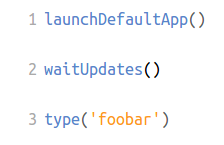
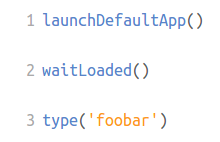
Fix images to match new naming

diff --git a/docs/guides/bulletproof-tests.md b/docs/guides/bulletproof-tests.md
@@ -61,11 +61,11 @@ permalink: docs/guides/bulletproof-tests/
   
 ####Wating for screen to load
 
-  Another way to make sure the screen is ready is by using **waitUpdates** function.  
-  When **waitUpdates** is called it starts monitoring changes on the application screen.  
-  When the screen is loading it always changes, when it's done - it stops updating, hence the name **waitUpdates**.
+  Another way to make sure the screen is ready is by using **waitLoaded** function.  
+  When **waitLoaded** is called it starts monitoring changes on the application screen.  
+  When the screen is loading it always changes, when it's done - it stops changing, so the screen is considered to be loaded.
 
-  <img src="/img/guides/bulletproof-tests/theverge-waitUpdates.png">
+  <img src="/img/guides/bulletproof-tests/theverge-waitLoaded.png">
  
   This approach is useful if you are not interested in any particular element but rather in general page readiness.  
   The common problem it solves is typing when a text field is not yet on the screen:   
@@ -87,26 +87,26 @@ permalink: docs/guides/bulletproof-tests/
 
   But what if the purpose of a test step is to make sure that the field already has focus?  
   In this case a test needs to wait until page is ready.
-  Inserting **waitUpdates** before typing will make sure that the page is fully loaded before typing can begin.
+  Inserting **waitLoaded** before typing will make sure that the page is fully loaded before typing can begin.
 
   <img src="/img/guides/bulletproof-tests/testobject-after.png">
 
-####When to use **waitAppear**/**waitVanish** and when **waitUpdates**?
-  **waitAppear**/**waitVanish** and **waitUpdates** can have similar purpose by ensuring that application is ready to continue to the next step.  
+####When to use **waitAppear**/**waitVanish** and when **waitLoaded**?
+  **waitAppear**/**waitVanish** and **waitLoaded** can have similar purpose by ensuring that application is ready to continue to the next step.  
   In a lot of cases thay can be used interchangeably, so when to use each one?  
-  **waitUpdates** is more generic and doesn't need any particular element to be defined, which makes it perfect for situations when the readiness of the page is defined by the lack of screen changes.  
-  This approach however makes a test execution a bit slower - when an application screen stops updating **waitUpdates** needs 
+  **waitLoaded** is more generic and doesn't need any particular element to be defined, which makes it perfect for situations when the readiness of the page is defined by the lack of screen changes.  
+  This approach however makes a test execution a bit slower - when an application screen stops updating **waitLoaded** needs 
   a couple of seconds to confirm that page is ready and it's not just a pause in loading.  
-  Another issue are applications with constant animation. If an application screen constantly changes because of a banner for example, **waitUpdates** will stop only after timeout is reached.  
-  **waitUpdates** is inserted automatically in your test during a recording when the system detects that an application took some time to get ready between steps and this approach works well in most cases.  
+  Another issue are applications with constant animation. If an application screen constantly changes because of a banner for example, **waitLoaded** will stop only after timeout is reached.  
+  **waitLoaded** is inserted automatically in your test during a recording when the system detects that an application took some time to get ready between steps and this approach works well in most cases.  
   **waitAppear**/**waitVanish** on the other hand is extremely fast as it scans an application screen constantly and goes to the next test step as soon as element appears on or vanishes from the screen.  
   This makes a test execution as fast as possible but requires manual input from the user as we can't determine which elements are actually relevant to the application.  
-  If the execution speed is essential for your test you can reduce waiting time by replacing some or all of **waitUpdates** with **waitAppear**/**waitVanish**
+  If the execution speed is essential for your test you can reduce waiting time by replacing some or all of **waitLoaded** with **waitAppear**/**waitVanish**
 
 ####Adjusting timeouts
   We use timeouts to determine how long to wait for elements to appers/vanish before executing an action.  
   Functions that look for elements on the screen fail after **60** seconds by default if the element is not on the screen.  
   Sometimes however applications need more time, for example if they include some processing or downloading big files.  
   Increasing the timeout for **click**, **waitAppear**/**waitVanish** will make sure that test will not fail just because it needed more time for execution.  
-  **waitUpdates** also has a timeout which limits the time that the system waits for an application screen to get ready. If an application needs more than **60** seconds 
+  **waitLoaded** also has a timeout which limits the time that the system waits for an application screen to get ready. If an application needs more than **60** seconds 
   the timeout can be increased to make sure the test waits long enough.
